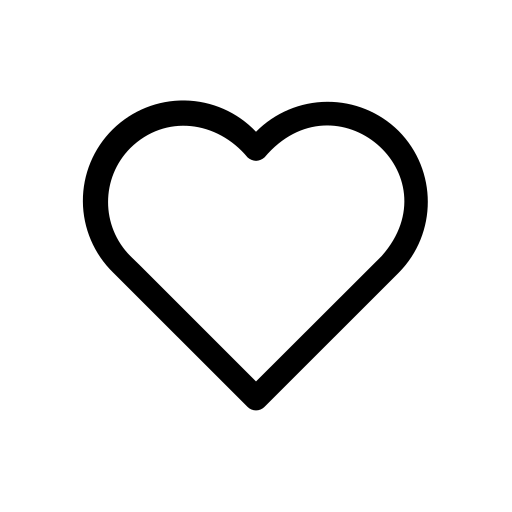
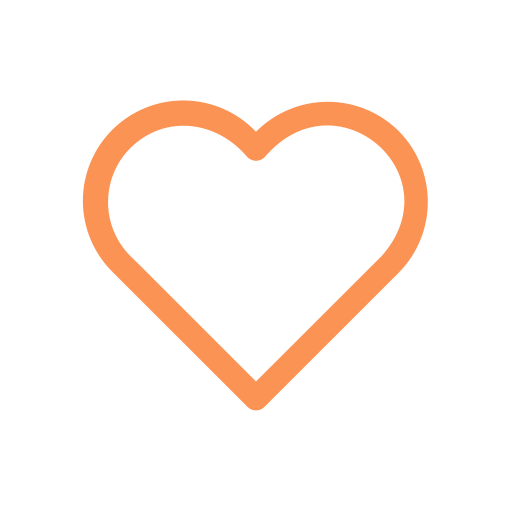
patch 2.0

Changed region(s): [[0.1562, 0.1875, 0.8438, 0.8125]]

diff --git a/css/style.css b/css/style.css
@@ -171,7 +171,6 @@ footer{
 .img_product{
     position: relative;
     display: inline-block;
-    object-fit: contain;
     width: 23vh;
     height: 20vh;    
 }
@@ -227,7 +226,7 @@ footer{
     background-color: white;
     transform: scale(1.1);
     z-index: 1;
-    border: 1px solid black;    
+    border: 2px solid #fb9354;    
 }
 
 .register{

diff --git a/index.php b/index.php
@@ -172,12 +172,12 @@
         ?>
             <div class="single_product third-grid-item">
                 <div class="img_product">
-                    <a href='single-product.php?id=<?php echo $result["id"]?>'><img width="100%" height="100%" style="border-radius: 1rem; padding: 5%;" src='./Annunci/<?php echo $result["utente"] . "/" . $result["id"] . "/" . $result["picture1"] ?>'></a>
+                    <a href='single-product.php?id=<?php echo $result["id"]?>'><img width="100%" height="100%" style="border-radius: 2rem; padding: 5%;" src='./Annunci/<?php echo $result["utente"] . "/" . $result["id"] . "/" . $result["picture1"] ?>'></a>
                     <div class="overlay-container">
                         <?php
                             if(!isset($_SESSION["id"])){
                         ?>
-                        <button class="overlay_button"><img id="preferito" data-id-prod='<?php echo $result["id"] ?>' class="icon" style="background-color: white; border-radius:0.375rem" onclick="redirectToLogin()" src="./img/hearth.png"></button>
+                        <button class="overlay_button"><img id="preferito" data-id-prod='<?php echo $result["id"] ?>' class="icon" style="background-color: white; border-radius: 0.4rem" onclick="redirectToLogin()" src="./img/hearth.png"></button>
                         <?php
                             } else {
                                 $sql_hearth = 'SELECT * from preferiti where utente = $1 and prodotto = $2';
